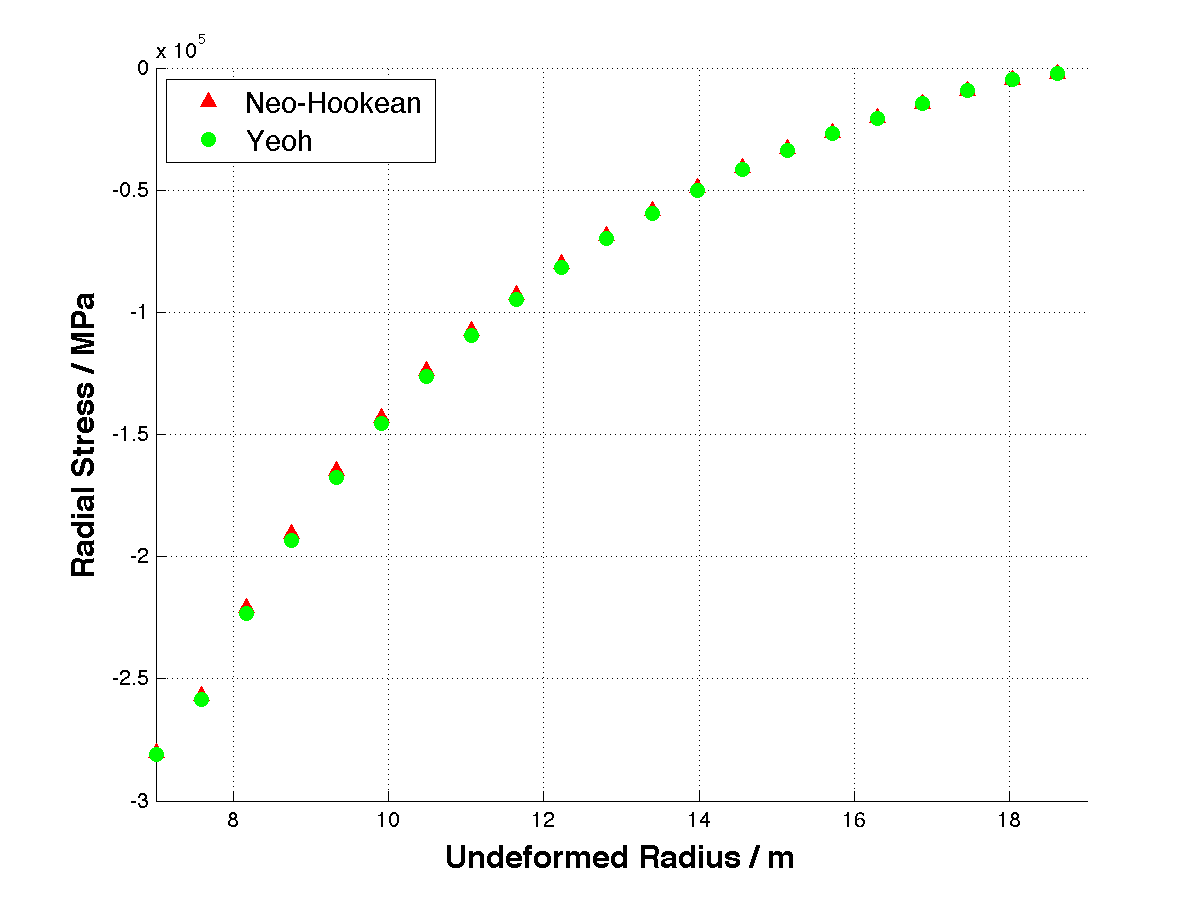
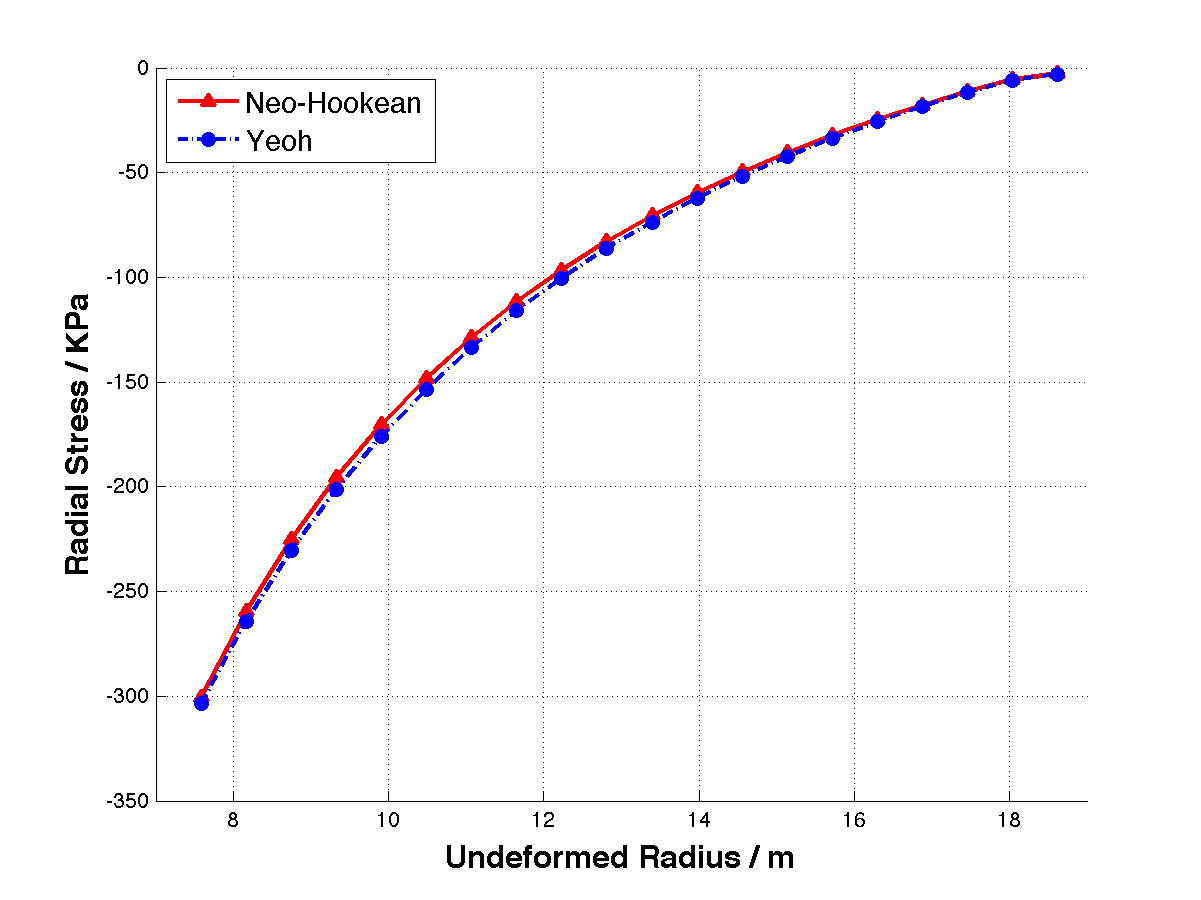
tests finished, conclusion added

diff --git a/paper/texFiles/section4.tex b/paper/texFiles/section4.tex
@@ -3,7 +3,7 @@ In this section, we present two sets of test cases to validate the results we ob
 
 \subsection{Biaxial Tension Test}
 \label{biaxial_tension_test}
-A long bar loaded equally in two directions with fixed tractions is considered. The section is a $1$ $m^2$ square. Define the stretch $\lambda$ as the ratio between the deformed length to the original length, then for isotropic incompressible material, the stress is expressed as:
+A long bar loaded equally in two directions with fixed tractions is considered. The section of the bar is a $1$ $m^2$ square. As shown in Figure \ref{fig:biaxial_schematic}, the bottom surface is fixed in $z$-direction; the left surface is fixed in $y$-direction and the back surface is fixed in $x$-direction. External tractions are applied to the front and right surfaces. Define the stretch $\lambda$ as the ratio between the deformed length to the original length, then for isotropic incompressible material, the stress is expressed as:
 \begin{equation}
 S_{11} = S_{22} = 2(1 - {\lambda}^{-6})(\frac{\partial\Psi_{iso}}{\partial\bar{I}_1} + {\lambda}^2\frac{\partial\Psi_{iso}}{\partial\bar{I}_2}), \quad S_{33} = 0
 \end{equation}
@@ -26,6 +26,13 @@ Similarly, for Yeoh model
 \begin{equation}
 P = \lambda S = 2(\lambda - {\lambda}^{-5})[c_1 + 2c_2(2{\lambda}^2 + {\lambda}^{-4} - 3) + 3c_3(2{\lambda}^2 + {\lambda}^{-4} - 3)^2]
 \end{equation}
+
+\begin{figure}[h!]
+\centering
+\includegraphics[width=.3\textwidth]{./figures/biaxial_schematic.jpg}
+\caption{Schematic Diagram of Biaxial Tension Test}
+\label{fig:biaxial_schematic}
+\end{figure}
 
 The material constants used in these models are curve-fitted from the standard ASTM412 tensile test results of the same material. See Shashikant. In Neo-Hookean model, $\mu_1 = 0.6548$ MPa; in Mooney-Rivlin model, $\mu_1 = 0.595522$ MPa, $\mu_2 = -0.0508009$ MPa; in Yeoh model, $c_1 = 0.358756$ MPa, $c_2 = - 0.0508009$ MPa, $c_3 = 0.0142132$ MPa. The Poisson's ratios for all the models are over $\nu = 0.49999$, closed enough to incompressibility.
 
@@ -61,7 +68,7 @@ $\lambda_y$ is greater than $\lambda_x$ when $0^\circ < \alpha < 45^\circ$ since
 
 \subsection{Cylindrical Pressure Vessel}
 \label{pressure_vessel}
-As a typical application, we consider a vessel under lumen pressure. The vessel has an internal radius of $R_i = 7$ m and an external radius of $R_o = 18.625$ m. Only a quarter of vessel is considered with plain strain assumption. First we model the vessel with Mooney-Rivlin model. The material parameters used are $\mu_1 = 160$ MPa and $\mu_2 = 40$ MPa. $\kappa$ is set to $1 \times 10^5$ MPa to make the material nearly incompressible. We compare the radial displacement, hoop stress, radial stress, and axial stress with the analytical solutions of incompressible Mooney-Rivlin model under an internal pressure of $p_i = 50$ MPa. The analytical solutions are found in [] as follows 
+As a typical application, we consider a vessel under lumen pressure. The vessel has an internal radius of $R_i = 7$ m and an external radius of $R_o = 18.625$ m. Only a quarter of vessel is considered with plain strain assumption as shown in Figure \ref{fig:vessel_schematic}. $21$ nodes are uniformly distributed in radial direction. As the first case, we model the vessel with Mooney-Rivlin model. The material parameters used are $\mu_1 = 160$ MPa and $\mu_2 = 40$ MPa. $\kappa$ is set to $1 \times 10^7$ MPa to make the material nearly incompressible. We compare the radial displacement, hoop stress, radial stress, and axial stress with the analytical solutions of incompressible Mooney-Rivlin model under an internal pressure of $p_i = 50$ MPa. The analytical solutions are found in [] as follows 
 \begin{subequations}
 \begin{align}
 p_i &= 2(\mu_1 + \mu_2)(log\frac{{R_i}^2 + b}{{R_o}^2 + b} - 2log\frac{R_i}{R_o} +
@@ -75,7 +82,14 @@ p &= - p_i - \mu_2 - (\mu_1 + \mu_2)(log\frac{r}{R_i} + \frac{b}{2}(r^2 - {R_i}^
 \end{subequations}
 where $R$ and $r$ are the radial coordinate before and after deformation, $p$ is the hydrostatic pressure, $u_r$ is the radial displacement, and $\sigma_{\theta}$, $\sigma_r$ and $\sigma_z$ are the hoop, radial and axial stresses respectively. $b$ is a constant determined by the internal pressure $p_i$, and $C$ is an arbitrary constant since the material is incompressible. 
 
-Fig \ref{fig:mooney-rivlin1} is the stress and displacement components along radius direction. Good agreement is achieved on all the components. Notice the axial stress is usually hard to predict but our result is satisfactory. The discrepancy between numerical computation and analytical solution is due to the slight compressibility used in computation. Furthermore, we pick the node at the midpoint along a radius ($R = 12.8125$ m) and study its deformation at different internal pressures. As shown in Fig \ref{fig:mooney-rivlin2}, the computational result and analytical solution agree well with each other in most cases except that there are significant discrepancy in hoop stress and radial stress in high pressure. This is because with such great bulk modulus, a small discrepancy in radial displacement will be amplified in stresses. 
+\begin{figure}[h!]
+\centering
+\includegraphics[width=.3\textwidth]{./figures/vessel_schematic.jpg}
+\caption{Schematic Diagram of Pressure Vessel}
+\label{fig:vessel_schematic}
+\end{figure}
+
+Fig \ref{fig:mooney-rivlin1} shows the stress components and the radial displacement along radius direction. Good agreement is achieved on all the components. Notice the axial stress is usually hard to predict but our result is satisfactory. Furthermore, we pick the node at the midpoint in the radial direction ($R = 12.8125$ m) and study its deformation under different internal pressures. As shown in Fig \ref{fig:mooney-rivlin2}, the computational result and analytical solution agree perfectly with each other. 
 
 \begin{figure}[t!p]
 	\begin{subfigure}[b]{0.5\textwidth}
@@ -137,7 +151,7 @@ Fig \ref{fig:mooney-rivlin1} is the stress and displacement components along rad
 	\label{fig:mooney-rivlin2}
 \end{figure}
 
-We use Neo-Hookean and Yeoh model to characterize the same material and repeat the vessel expansion test. The material constants are the same as in Section \ref{biaxial_tension_test}.
+Next we use Neo-Hookean and Yeoh model to characterize the same material and repeat the vessel expansion test. The material constants are the same as in Section \ref{biaxial_tension_test}. Figure \ref{hoop_nh_yeoh} shows the results of these two models under an inner pressure of $p_i = 350$ kPa. The displacements have similar trends but different values. It is surprising that hoop stress and radial stress predicted by two models are close. The major difference is the axial stress where Yeoh model predicts a larger range.
 
 \begin{figure}[t!p]
 	\begin{subfigure}[b]{0.5\textwidth}
@@ -169,6 +183,37 @@ We use Neo-Hookean and Yeoh model to characterize the same material and repeat t
 	\label{fig:nh_yeoh}
 \end{figure}
 
+As the last test case we compare HGO model to Neo-Hookean model. The parameters used in the HGO model is still the same as in Section \ref{biaxial_tension_test}, the geometry and mesh are the same as in previous cases. To demonstrate the effect of the anisotropic part of the HGO model, we use the same $\mu_1$ and $\kappa$ in the Neo-Hookean model. This time, the two families of fibers are arranged in the $\theta-z$ plane with constant angles to the circumferential direction of $\pm 50^\circ$. From Figure \ref{fig:nh_hgo} we can see that overall the vessel is significantly strengthened as the radial displacement is much smaller. While the radial stress does not change much (similar to Yeoh model), the hoop stress is smaller but has a similar trend. However the axial stress changes dramatically. In Neo-Hookean model the inner surface has the maximum axial stress while in HGO model the outer surface has the maximum axial stress. But overall both hoop stress and axial stress are much smaller in the HGO model.
+
+\begin{figure}[t!p]
+	\begin{subfigure}[b]{0.5\textwidth}
+		\centering
+		\includegraphics[width=\textwidth]{./figures/ur_nh_hgo.png}
+		\caption{Radial Displacement}
+		\label{ur_nh_hgo}
+	\end{subfigure}
+	\begin{subfigure}[b]{0.5\textwidth}
+		\centering
+		\includegraphics[width=\textwidth]{./figures/hoop_nh_hgo.png}
+		\caption{Hoop Stress}
+		\label{hoop_nh_hgo}
+	\end{subfigure}
+	
+	\begin{subfigure}[b]{0.5\textwidth}
+		\centering
+		\includegraphics[width=\textwidth]{./figures/radial_nh_hgo.png}
+		\caption{Radial Stress}
+		\label{radial_nh_hgo}
+	\end{subfigure}
+	\begin{subfigure}[b]{0.5\textwidth}
+		\centering
+		\includegraphics[width=\textwidth]{./figures/axial_nh_hgo.png}
+		\caption{Axial Stress}
+		\label{axial_nh_hgo}
+	\end{subfigure}
+	\caption{Vessel Expansion with Neo-Hookean and HGO Model}
+	\label{fig:nh_hgo}
+\end{figure}
 
 
 

diff --git a/paper/texFiles/section2.tex b/paper/texFiles/section2.tex
@@ -410,13 +410,13 @@ Equation \ref{Cvol1} and Equation \ref{Ciso2} gives the elasticity tensor in the
 
 %
 \subsubsection{Holzapfel-Gasser-Ogden Model}
-The Holzapfel-Gasser-Ogden (HGO) model is introduced in 2000 [ ] to model the layering structure of arterial tissue. The idea is to formulate a constitutive model which incorporates some histological structure of arterial walls (i.e. fiber direction). What distinguishes HGO model from the phenomenological models is that it accounts for both the non-collagenous matrix material which is active at low pressures (modeled as isotropic) and the collagenous fibers which becomes active at high pressure (modeled as anisotropic). HGO model uses Neo-Hookean model as the isotropic ground material, and the anisotropic part consists two families of fibers represented by two pseudo-invariants $\bar{I}_4$ and $\bar{I}_6$. The directions of these fibers are represented by unit vectors $\bold{a}_{04}$ and $\bold{a}_{06}$ in the reference configuration. Specifically, the HGO model is written as
+The Holzapfel-Gasser-Ogden (HGO) model is introduced in 2000 [ ] to model the layering structure of arterial tissue. The idea is to formulate a constitutive model which incorporates some histological structure of arterial walls (i.e. fiber direction). What distinguishes HGO model from the phenomenological models is that it accounts for both the non-collagenous matrix material which is active at low pressures (modeled as isotropic) and the collagenous fibers which becomes active at high pressure (modeled as anisotropic). HGO model uses Neo-Hookean model as the isotropic ground material, and the anisotropic part consists two families of fibers represented by two pseudo-invariants $\bar{I}_4$ and $\bar{I}_6$. The directions of these fibers are represented by unit vectors $\bold{a}_{04}$ and $\bold{a}_{06}$ in the reference configuration. Specifically, the isochoric part of HGO model is written as
 
 \begin{subequations} \label{HGO}
 \begin{align}
-\Psi(\bold{C}, \bold{a}_{04}, \bold{a}_{06}) &= \Psi_{vol}(J) + \Psi_{isotropic}(\overline{\bold{C}}) + \Psi_{aniso}(\overline{\bold{C}}, \bold{a}_{04}, \bold{a}_{06}) 
+\Psi_{iso}(\bold{C}, \bold{a}_{04}, \bold{a}_{06}) &= \Psi_{isotropic}(\overline{\bold{C}}) + \Psi_{aniso}(\overline{\bold{C}}, \bold{a}_{04}, \bold{a}_{06}) 
 \end{align}
-where $\Psi_{iso}$ and $\Psi_{aniso}$ are isochoric isotropic part and isochoric anisotropic part of the strain-energy function. In particular
+where $\Psi_{isotropic}$ and $\Psi_{aniso}$ are isotropic part and anisotropic part of the isochoric strain-energy function. In particular
 \begin{align}
 \Psi_{isotropic} &= \frac{\mu_1}{2}(\bar{I}_1 - 3)  \label{isotropic} \\
 \Psi_{aniso}(\overline{\bold{C}}, \bold{a}_{04}, \bold{a}_{06}) &= \frac{k_1}{2k_2} \sum_{i = 4, 6} \{exp[k_2(\bar{I_i} - 1)^2] - 1\} \label{anisotropic} 
@@ -424,7 +424,22 @@ where $\Psi_{iso}$ and $\Psi_{aniso}$ are isochoric isotropic part and isochoric
 where $k_1 > 0$ is a stress-like material parameter and $k_2 > 0$ is a dimensionless parameter.
 \end{subequations}
 
-As the material deforms, these vectors deform accordingly and are expressed as unit vectors $\bold{a}_4$ and $\bold{a}_6$ in the current configuration. $\bold{a}_{0i}$ and $\bold{a}_{i}$ ($i = 4, 6$) are related by 
+The isotropic part of the HGO model is simply the Neo-Hookean model, which is a special case of Mooney-Rivlin model with $\mu_2 = 0$. Therefore, to obtain the isotropic contribution to the isochoric PK2 stress, we only need to set $\mu_2$ to $0$ in Equation \ref{Siso1}:
+\begin{equation} \label{Sisotropic}
+\bold{S}_{isotropic} = J^{-2/3}\mu_1(-\frac{1}{3}\bar{I}_1\overline{\bold{C}}^{-1} + \bold{I})
+\end{equation}
+
+Similarly, by setting $\mu_2$ to $0$ in Mooney-Rivlin model, we could easily get the isotropic part of the isochoric elasticity tensor. From Equation \ref{Ciso1}
+\begin{equation} \label{Ciso32}
+\begin{split}
+\mathbb{C}_{isotropic} &=
+- \frac{2}{3}J^{-4/3}\mu_1({\overline{\bold{C}}}^{-1} \otimes \bold{I} + \bold{I} \otimes {\overline{\bold{C}}}^{-1})  \\
+&+
+\frac{2}{9}J^{-4/3}\mu_1\bar{I_1}  {\overline{\bold{C}}}^{-1} \otimes {\overline{\bold{C}}}^{-1} + \frac{2}{3}J^{-4/3} \mu_1\bar{I_1} {\overline{\bold{C}}}^{-1} \odot {\overline{\bold{C}}}^{-1} 
+\end{split}
+\end{equation}
+
+To derive the anisotropic parts of stress and elasticity tensor, we need to introduce the deformation of the fibers. As the material deforms, the vectors of the fibers deform accordingly and are expressed as unit vectors $\bold{a}_4$ and $\bold{a}_6$ in the current configuration. $\bold{a}_{0i}$ and $\bold{a}_{i}$ ($i = 4, 6$) are related by 
 \begin{equation} \label{vector}
 \lambda_i\bold{a}_i = \bold{F}\bold{a}_{0i}
 \end{equation} 
@@ -488,11 +503,7 @@ in HGO model
 \frac{\partial\Psi_{aniso}}{\partial{\bar{I}_i}} = k_1(\bar{I}_i - 1)e^{k_2(\bar{I}_i - 1)^2}
 \end{equation}
 
-The isotropic part of the HGO model is simply the Neo-Hookean model, which is a special case of Mooney-Rivlin model with $\mu_2 = 0$. Therefore, to obtain the isotropic contribution to the isochoric PK2 stress, we only need to set $\mu_2$ to $0$ in Equation \ref{Siso1}:
 
-\begin{equation} \label{Sisotropic}
-\bold{S}_{isotropic} = J^{-2/3}\mu_1(-\frac{1}{3}\bar{I}_1\overline{\bold{C}}^{-1} + \bold{I})
-\end{equation}
 Combine Equation \ref{Sanisotropic} and \ref{Sisotropic} we have the isochoric PK2 stress for HGO model
 \begin{equation} \label{HGOSiso}
 \begin{split}
@@ -576,16 +587,6 @@ Add up Equation \ref{part13}, \ref{part23} and \ref{part33} we have the anisotro
 \end{equation}
 where the $\partial\Psi_{aniso}/\partial{\bar{I}_i}$ iand $\partial^2\Psi_{aniso}/{\partial{\bar{I}_i}^2}$ ($i = 4, 6$) are given in Equation \ref{convert}.
 
-Similarly, by setting $\mu_2$ to $0$ in Mooney-Rivlin model, we could easily get the isochoric part of the isotropic elasticity tensor. From Equation \ref{Ciso1}
-
-\begin{equation} \label{Ciso32}
-\begin{split}
-\mathbb{C}_{isotropic} &=
-- \frac{2}{3}J^{-4/3}\mu_1({\overline{\bold{C}}}^{-1} \otimes \bold{I} + \bold{I} \otimes {\overline{\bold{C}}}^{-1})  \\
-&+
-\frac{2}{9}J^{-4/3}\mu_1\bar{I_1}  {\overline{\bold{C}}}^{-1} \otimes {\overline{\bold{C}}}^{-1} + \frac{2}{3}J^{-4/3} \mu_1\bar{I_1} {\overline{\bold{C}}}^{-1} \odot {\overline{\bold{C}}}^{-1} 
-\end{split}
-\end{equation}
 Combine Equation \ref{Ciso31} with Equation \ref{Ciso32} we have the complete isochoric part of the elasticity tensor of HGO model
 
 \begin{equation} \label{Ciso3}

diff --git a/paper/texFiles/conclusion.tex b/paper/texFiles/conclusion.tex
@@ -1,0 +1,9 @@
+\section{Concluding Remarks}
+Hyperelastic models are often used to model biological materials. There are two key difficulties in solving hyperelastic problems using finite element method. One is deriving the stress tensor and the elasticity tensor, the other is the illness of the tangent matrix in near incompressibility. The first problem has been solved in particular with many different models, however, to the author's knowledge, there is no paper thoroughly walk through a standard way to derive the stress and elasticity formulas and in many papers the elasticity tensors are totally ignored, leaving the readers confused. Regarding the second problem, although displacement/pressure mixed formulation has been proposed as early as 1990s, few papers are written to explain how to implement this formulation in matrix form. 
+
+Motivated in giving the readers a clear and followable way to solve any hyperelastic material with mixed formulation, we reviewed the general procedures to derive the stress and elasticity tensor. With three different example, we show how to substitute the specific models into the general formulations. Both isotropic and anisotropic models are covered in these examples. We also reviewed the theory of principle of virtual work and principle of stationary potential energy. With these theories, we introduced the origin of mixed formulation and further wrote it in matrix form. Along the way we discussed the pressure load which is common in biomechanics. Pressure load is more difficult than the obvious given traction because it involves the deformation of the loaded surface. To complete the finite element formulation in solving hyperelastic material problems, we linearized the principle of stationary potential energy. The published papers seldom covers the linearization of pressure load, which we also covered in the linearization process. 
+
+Using the procedures we summarized in this paper, we are able to solve any hyperelastic model, no matter of isotropic or anisotropic. To validate our method, two sets of tests are performed. The first one is the biaxial tension test which is often used to calibrate the material parameters in practice. For isotropic models, the computational results are exactly the same as 
+the analytical solutions; for anisotropic model, which lacks an analytical solution, the results are as expected. The second set of tests is the cylindrical pressure vessel, which is a common situation in biomechanics. As a benchmark, we computed a series of cases for Mooney-Rivlin model under different pressures. The computational deformation and stress are in very good agreement with the theoretical solutions. Then we also demonstrated the effectiveness of our derivations for Yeoh and HGO models based on the benchmark. 
+
+At last, we briefly introduced the finite element formulation in the updated Lagrange form to be consulted by the readers work in current coordinates.   

diff --git a/paper/derivation.tex b/paper/derivation.tex
@@ -75,6 +75,7 @@
 \input texFiles/section2
 \input texFiles/section3
 \input texFiles/section4
+\input texFiles/conclusion
 
 \input texFiles/appendices
 
